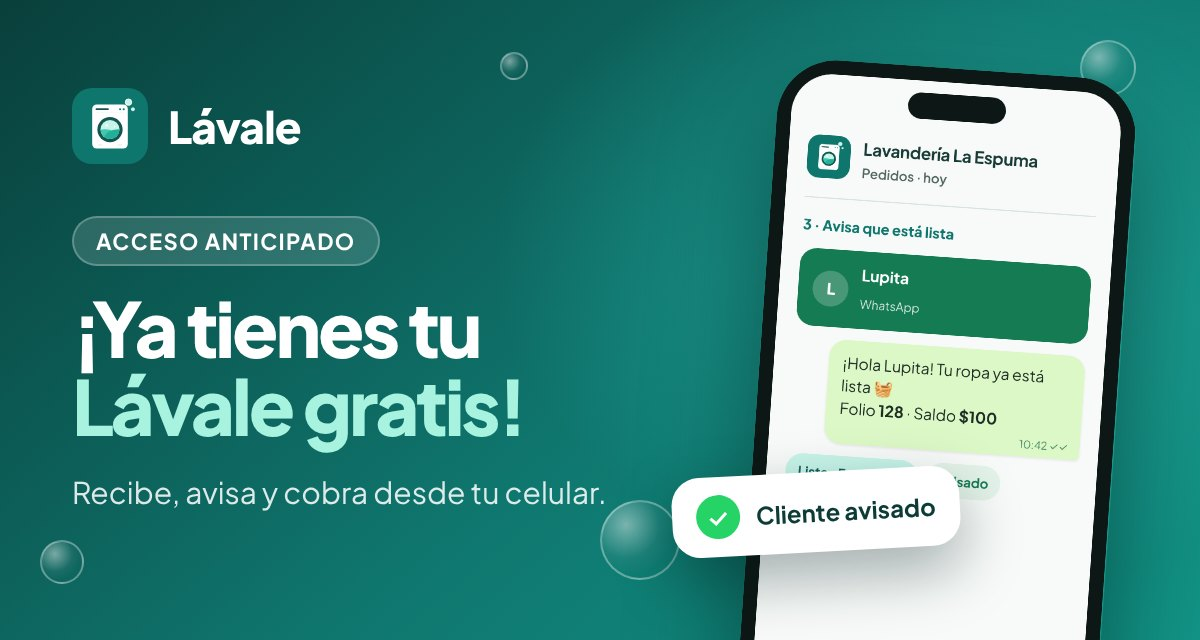
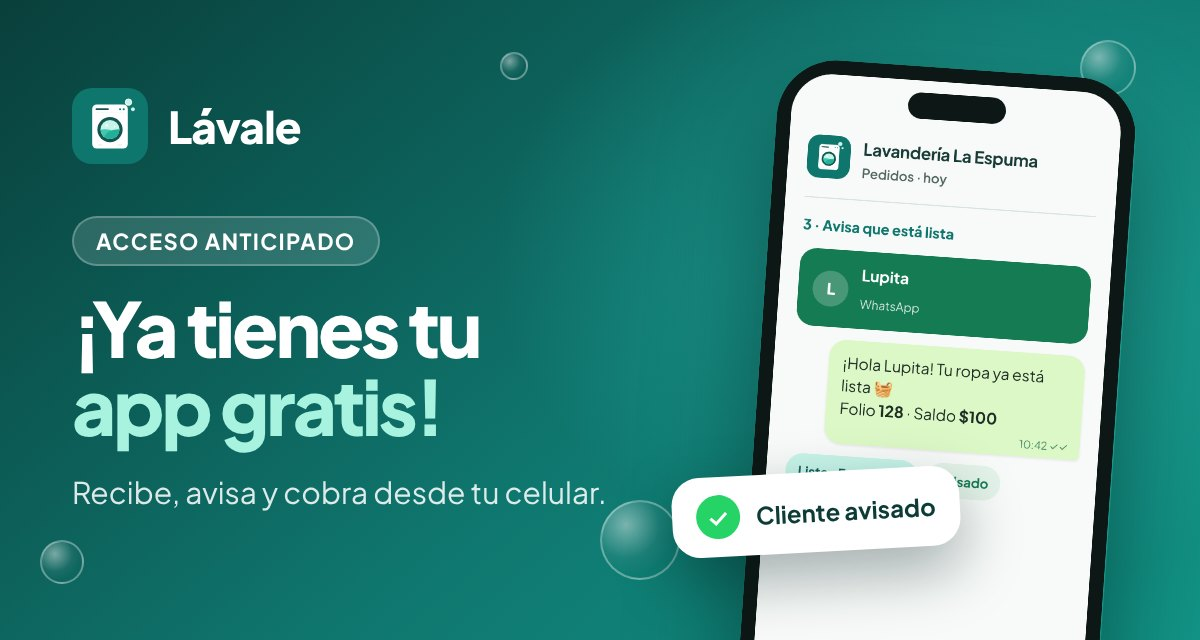
Correo de bienvenida: «¡Ya tienes tu app gratis!»
Claude-Session: https://claude.ai/code/session_01SY8sDb8DTZf8gaqPan6FGJ

Changed region(s): [[0.0617, 0.5625, 0.4317, 0.7188]]

diff --git a/public/email/bienvenida.html b/public/email/bienvenida.html
@@ -8,14 +8,14 @@
 </head>
 <!--
   Plantilla del correo de bienvenida para testers.
-  Asunto sugerido: 🎉 Tu Lávale gratis ya está lista
+  Asunto sugerido: 🎉 Ya puedes descargar tu app gratis
   Uso: abrir esta página, copiar todo (Cmd+A, Cmd+C) y pegar en un correo nuevo de Gmail.
   Es la misma para todos: no lleva nombre.
 -->
 <body style="margin:0;padding:0;background:#eef4f2;">
 <div id="correo" style="max-width:600px;margin:0 auto;background:#ffffff;font-family:Helvetica,Arial,sans-serif;color:#17312c;">
   <a href="https://play.google.com/apps/testing/mx.ejele.lavale" style="display:block;">
-    <img src="https://lavaleapp.vercel.app/email/bienvenida.jpg" width="600" alt="¡Ya tienes tu Lávale gratis!" style="display:block;width:100%;max-width:600px;height:auto;border:0;">
+    <img src="https://lavaleapp.vercel.app/email/bienvenida.jpg" width="600" alt="¡Ya tienes tu app gratis!" style="display:block;width:100%;max-width:600px;height:auto;border:0;">
   </a>
   <div style="padding:28px 28px 8px;">
     <p style="margin:0 0 14px;font-size:22px;line-height:1.3;font-weight:bold;color:#0d3b36;">¡Bienvenido a Lávale! 🎉</p>
